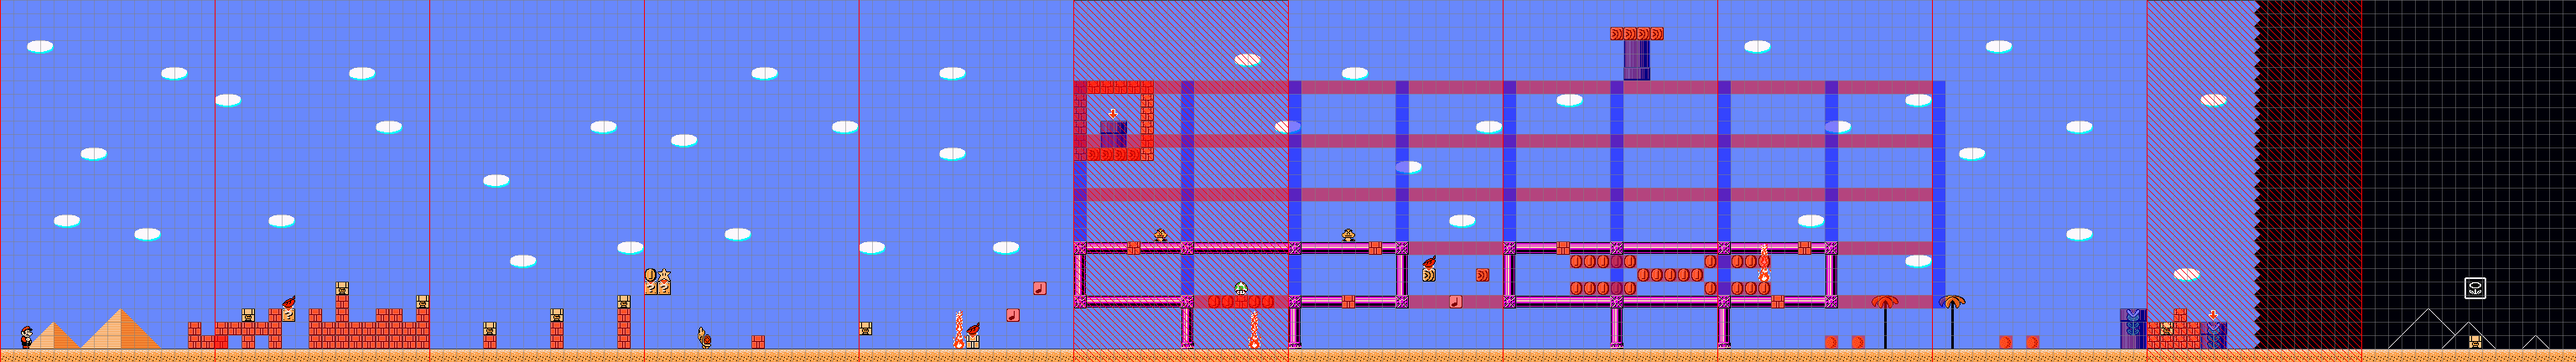
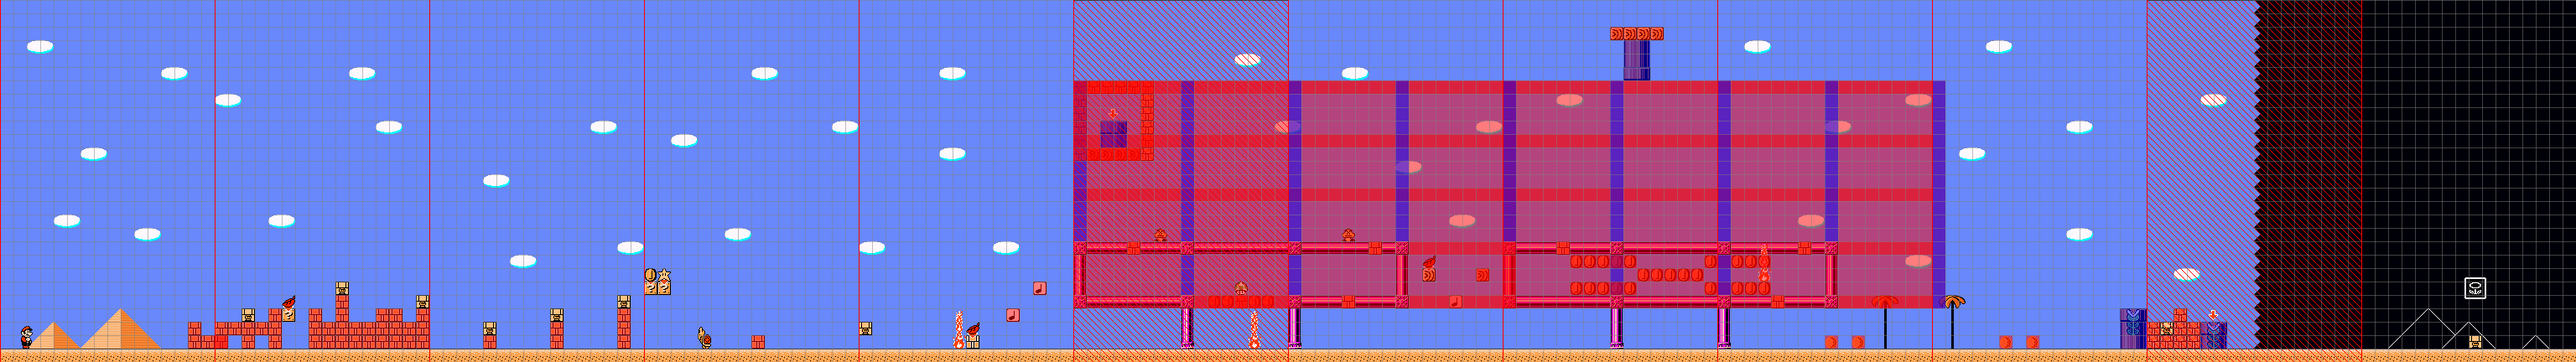
make desert boxes resizable, fixes #182

Changed region(s): [[0.4062, 0.2106, 0.7812, 0.8727]]

diff --git a/foundry/game/gfx/objects/in_level/level_object.py b/foundry/game/gfx/objects/in_level/level_object.py
@@ -292,16 +292,22 @@ class LevelObject(InLevelObject):
         if self.is_4byte:
             expands |= EXPANDS_BOTH
 
-        elif self.orientation in [
-            GeneratorType.HORIZONTAL,
-            GeneratorType.HORIZONTAL_2,
-            GeneratorType.HORIZ_TO_GROUND,
-        ] or self.orientation in [
-            GeneratorType.DIAG_DOWN_LEFT,
-            GeneratorType.DIAG_DOWN_RIGHT,
-            GeneratorType.DIAG_UP_RIGHT,
-            GeneratorType.DIAG_WEIRD,
-        ]:
+        elif (
+            self.orientation
+            in [
+                GeneratorType.HORIZONTAL,
+                GeneratorType.HORIZONTAL_2,
+                GeneratorType.HORIZ_TO_GROUND,
+            ]
+            or self.orientation
+            in [
+                GeneratorType.DIAG_DOWN_LEFT,
+                GeneratorType.DIAG_DOWN_RIGHT,
+                GeneratorType.DIAG_UP_RIGHT,
+                GeneratorType.DIAG_WEIRD,
+            ]
+            or self.orientation == GeneratorType.DESERT_PIPE_BOX
+        ):
             expands |= EXPANDS_HORIZ
 
         elif self.orientation in [GeneratorType.VERTICAL, GeneratorType.DIAG_WEIRD]:
@@ -310,16 +316,22 @@ class LevelObject(InLevelObject):
         return expands
 
     def primary_expansion(self):
-        if self.orientation in [
-            GeneratorType.HORIZONTAL,
-            GeneratorType.HORIZONTAL_2,
-            GeneratorType.HORIZ_TO_GROUND,
-        ] or self.orientation in [
-            GeneratorType.DIAG_DOWN_LEFT,
-            GeneratorType.DIAG_DOWN_RIGHT,
-            GeneratorType.DIAG_UP_RIGHT,
-            GeneratorType.DIAG_WEIRD,
-        ]:
+        if (
+            self.orientation
+            in [
+                GeneratorType.HORIZONTAL,
+                GeneratorType.HORIZONTAL_2,
+                GeneratorType.HORIZ_TO_GROUND,
+            ]
+            or self.orientation
+            in [
+                GeneratorType.DIAG_DOWN_LEFT,
+                GeneratorType.DIAG_DOWN_RIGHT,
+                GeneratorType.DIAG_UP_RIGHT,
+                GeneratorType.DIAG_WEIRD,
+            ]
+            or self.orientation == GeneratorType.DESERT_PIPE_BOX
+        ):
             if self.is_4byte:
                 return EXPANDS_VERT
             else:
